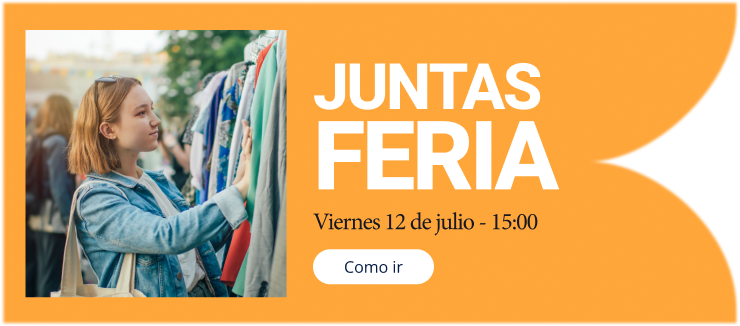
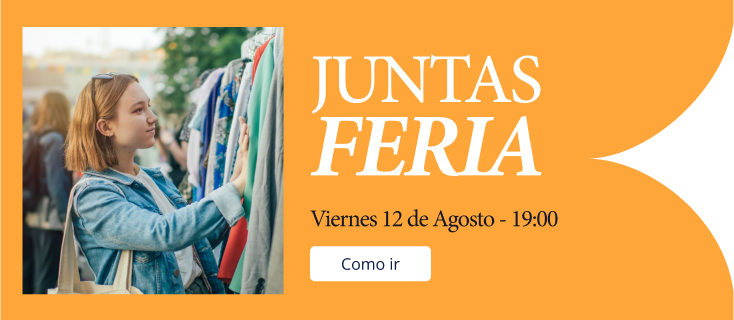
ultimos retoques de contador

diff --git a/assets/css/main.css b/assets/css/main.css
@@ -3405,17 +3405,21 @@ font-size: 80px;
 # contador section
 --------------------------------------------------------------*/
 .contador .body {
-  font-family: Arial, sans-serif;
+  font-family: "minion-pro", serif;
   background-color: #ffffff;
 }
+
+/* .contador section {
+  padding: 20px;
+} */
 
 .contador .container {
   display: flex;
   justify-content: space-between;
   align-items: center;
-  max-width: 1000px;
-  margin: 50px auto;
-  padding: 20px;
+  max-width: 1050px;
+  /* margin: 50px auto; */
+  /* padding: 20px; */
   background-color: #ffffff;
 }
 
@@ -3423,6 +3427,7 @@ font-size: 80px;
   flex: 1;
   text-align: center;
   padding: 20px;
+  padding-right: 100px;
 }
 
 .contador .countdown h2 {
@@ -3465,5 +3470,5 @@ font-size: 80px;
 .contador .image-container img {
   max-width: 130%;
   height: auto;
-  border-radius: 8px;
+  /* border-radius: 8px; */
 }
